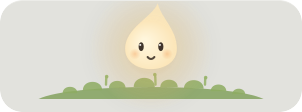
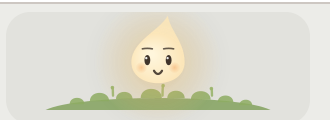
docs: the README shows the wisp as it looks now
The mood pictures were taken before it had eyebrows or weather in its
nook, so they showed a face that no longer exists. Re-taken from the
feel lab, and the prose now mentions the brows, the nook's weather and
the sky following the real sun. The developer notes describe the
workspace as it is split today.

Changed region(s): [[0.0, 0.0, 1.0, 0.9375], [0.0298, 0.9643, 0.0596, 1.0]]

diff --git a/README.md b/README.md
@@ -55,6 +55,12 @@ happily and lets off little motes of light. Sink into an endless feed and it
 slowly clouds over, grows tired and drifts toward the edge of its nook, as if
 it's ready to go outside and hoping you'll come too.
 
+**Its eyebrows do most of the talking.** They only ever move up or down, never
+tilting into sad or stern, so its mood reads from across the room rather than
+only up close. Behind it, the nook takes on the weather of your day: fresh and
+green while you're recovering, a dusky haze while it wears. Never red, never
+an alarm.
+
 **It never scolds you.** At its heaviest it looks sleepy, never sad or cross.
 Step away for a while and it perks up again. Hover over it any time and it
 tells you, in plain words, exactly what's moving it.
@@ -135,6 +141,8 @@ fetched from anywhere.
   learning brings ferns, a gentle day brings flowers, and a calm night leaves
   fireflies. A heavy day simply grows nothing. **Nothing ever wilts, and
   missing a day costs you nothing:** there are no streaks to break.
+- **A sky that follows the real sun.** Morning, day, evening and night arrive
+  when they actually do where you are, rather than when a clock says so.
 - **A greeting that notices what went well.** "You took a proper break
   earlier." "Last night stayed calm after dark." Only ever true, and never
   about what went badly.
@@ -296,6 +304,7 @@ Flatpak), which you can edit by hand too. Changes take effect immediately.
 - An optional **pause at the door** for sites *you* choose, with two equal
   buttons: go in, or not now.
 - Zoom, downloads, session restore and the rest of the everyday basics.
+- **Windows and macOS**, on the same core as the Linux build.
 
 Have a site you think is on the wrong list? That's exactly the kind of help
 Glimmerwood needs: please [open an issue](https://github.com/peterwalker78/glimmerwood/issues)
@@ -305,11 +314,18 @@ and say why.
 
 ## For developers
 
-Glimmerwood is written in Rust on GTK 4 and WebKitGTK 6.0. The wisp itself is drawn
-natively rather than in a web page, so the whole browser idles at around one
-percent of a CPU core with the wisp breathing. The
-toolbar and Home are small TypeScript pages compiled by the native TypeScript
-7 compiler, so there's no Node in the build.
+Glimmerwood is written in Rust, on GTK 4 and WebKitGTK 6.0. The wisp itself is
+drawn natively rather than in a web page, so the whole browser idles at around
+one percent of a CPU core with the wisp breathing. The toolbar and Home are
+small TypeScript pages compiled by the native TypeScript 7 compiler, so
+there's no Node in the build.
+
+The workspace splits the browser from the machine it runs on. `core/` is the
+dose model, the lists, the garden, the diary, the protocol and the whole of
+the wisp's drawing, with no window toolkit anywhere in its dependencies;
+`app/` is the GTK build on top of it. `raster/` draws the wisp into pixels for
+platforms without cairo, and `windows/` and `macos/` are shells being built on
+the same core.
 
 Requirements: Rust (stable), GTK 4.20 or later, WebKitGTK 6.0,
 `glib-compile-resources`, SQLite, and `curl` to fetch the compiler.
@@ -319,6 +335,7 @@ scripts/dev      # build and run from the source tree
 scripts/check    # formatting, clippy, tests and the TypeScript build
 scripts/flatpak  # build and install the Flatpak for your user
 scripts/bundle   # build a single-file Flatpak bundle for release
+scripts/site     # build the welcome page; --publish puts it online
 ```
 
 If a distrobox named `glimmerwood` exists, `scripts/dev` and `scripts/check` run
